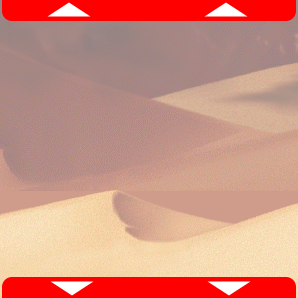
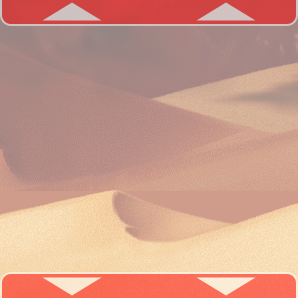
new clue bg

Changed region(s): [[0.0, 0.906, 1.0, 1.0], [0.0, 0.0, 1.0, 0.0906]]

diff --git a/src/board.js b/src/board.js
@@ -197,7 +197,7 @@ export class ForbiddenDesertBoard extends React.Component {
                             sandIndicator = sandIndicator.concat("l");
                         }
                         tile.push(<div className={this.props.G.tiles[id].sandCount > 1 ? "sand red" : "sand"}>
-                            Sand: {sandIndicator}</div>);
+                            {sandIndicator}</div>);
                     }
                     if (this.props.G.tiles[id].isRevealed === false) {
                         row.push(<td key={id} className={this.props.G.tiles[id].type === "well" || this.props.G.tiles[id].type === "mirage" ?
